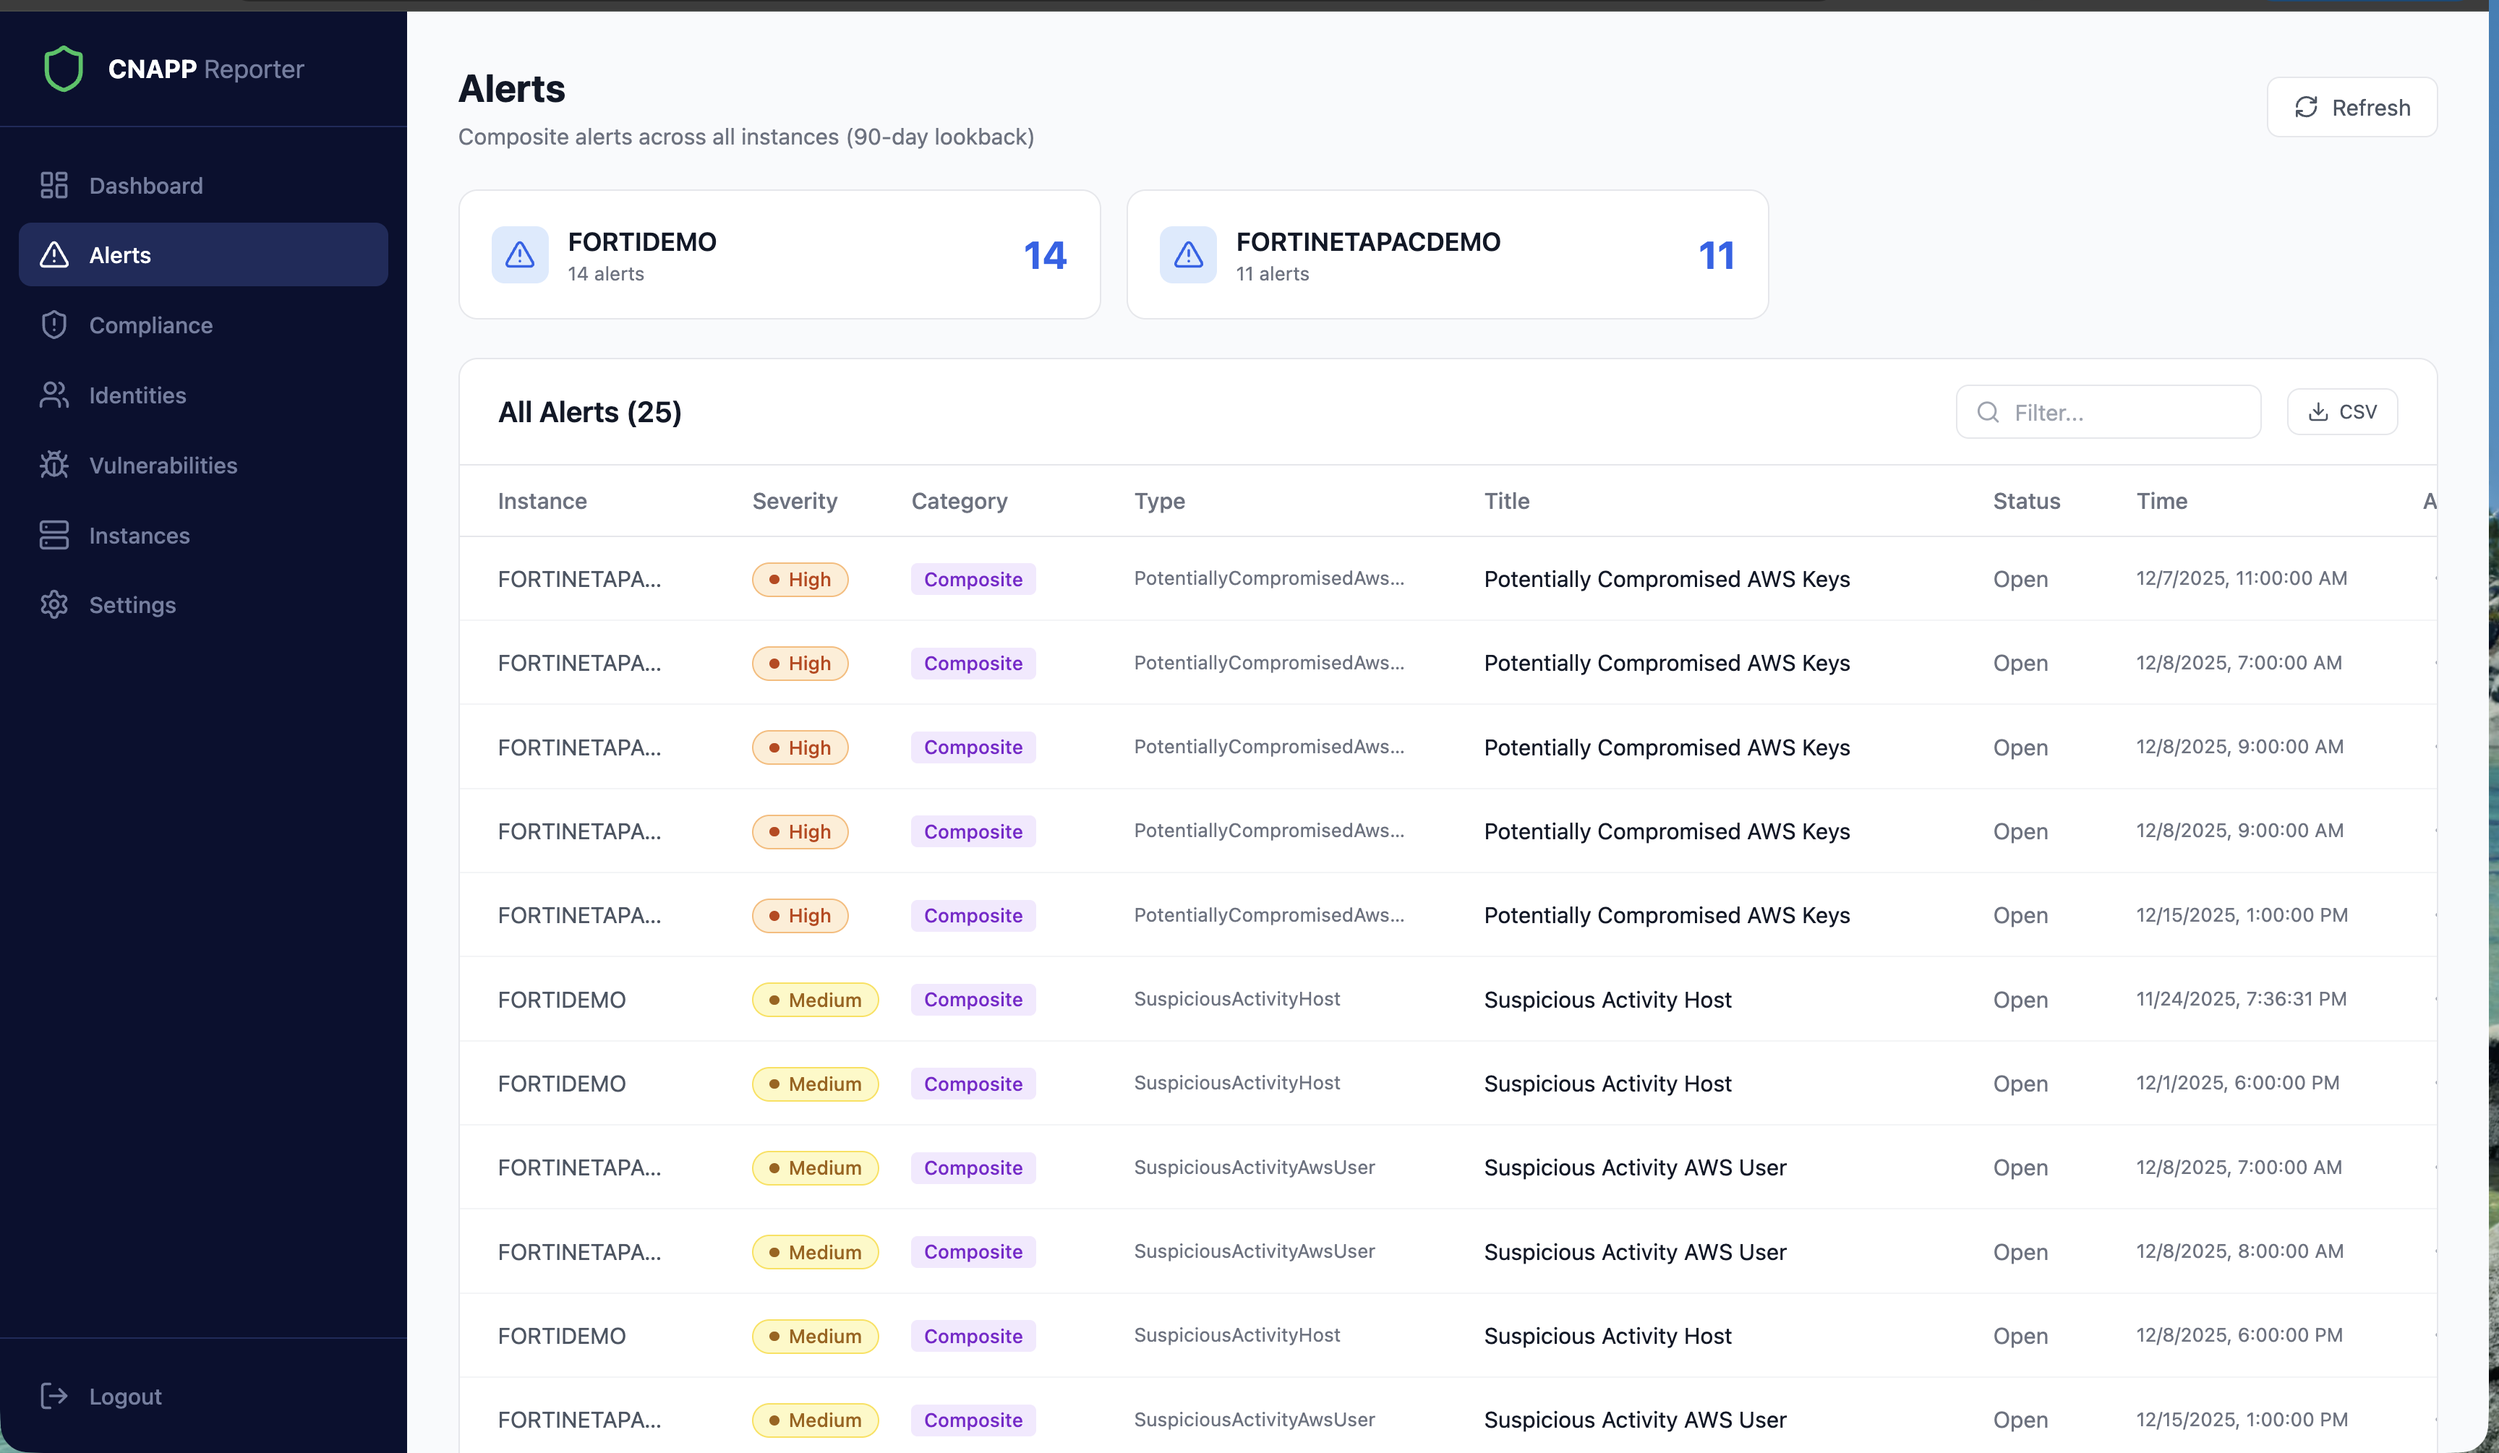
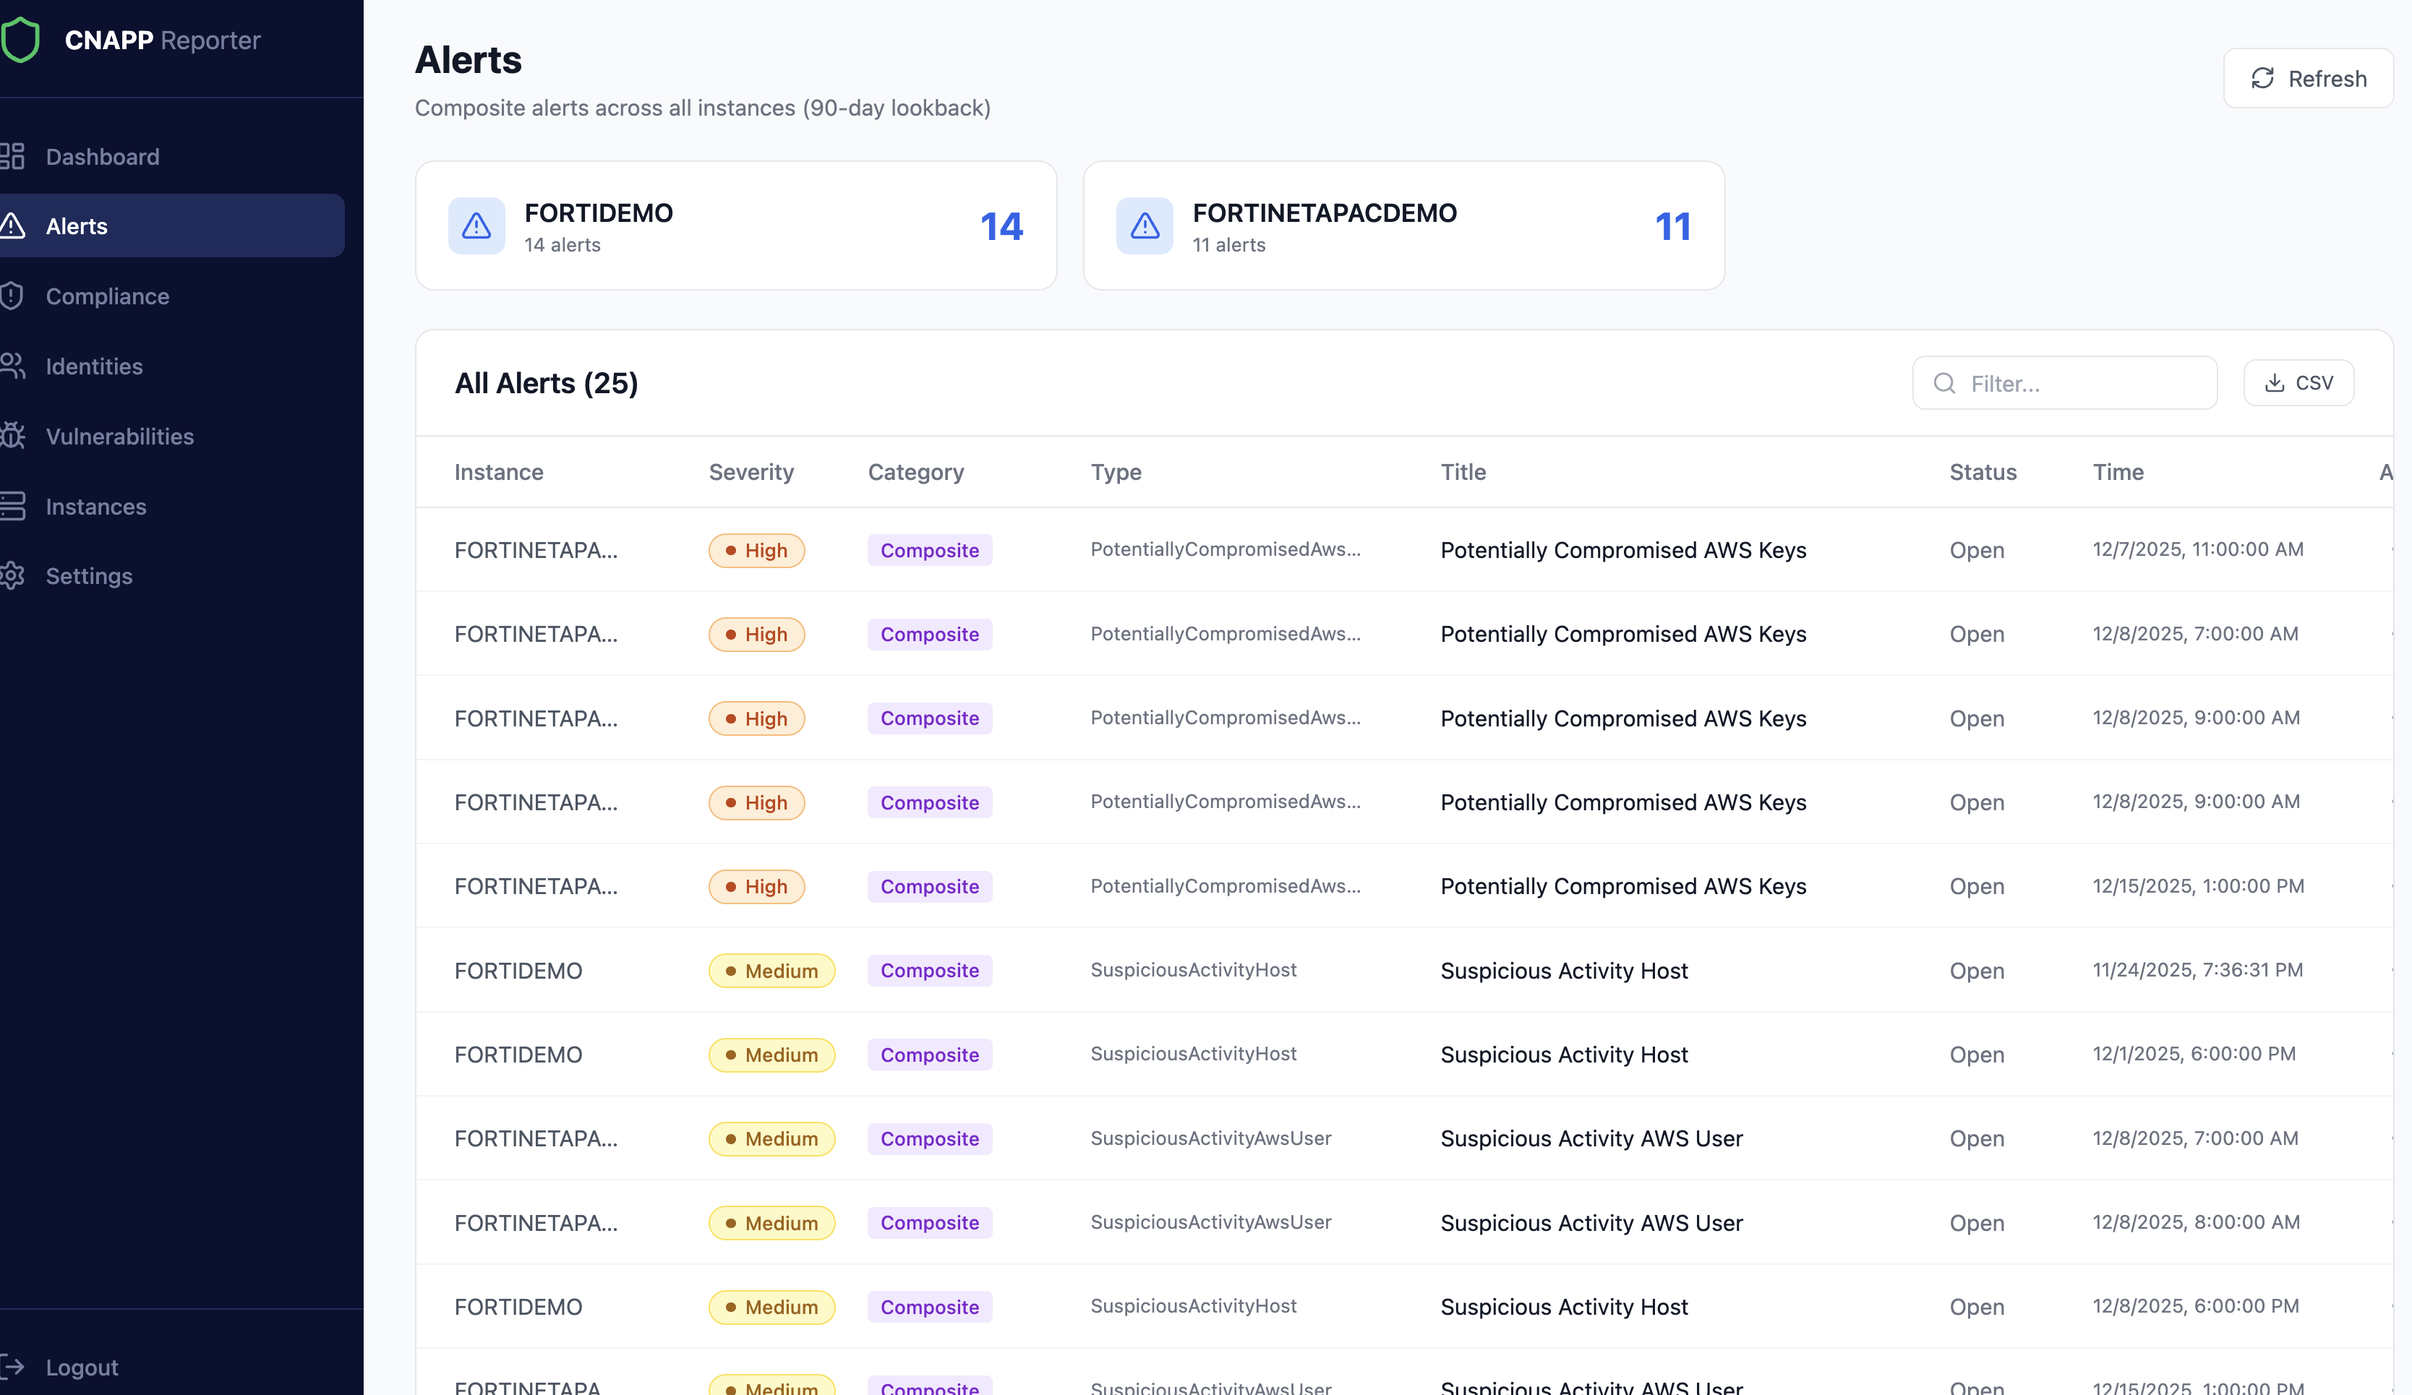
Crop screenshots, remove filler line from README

diff --git a/README.md b/README.md
@@ -16,8 +16,6 @@ Pulls together alerts, vulnerabilities, compliance issues, and identity risks fr
 
 **Vulnerabilities** - critical vulns with internet-exposure detection and fix availability.
 
-Every table supports column resizing, text search, instance filtering, and CSV export.
-
 ![Alerts](screenshots/alerts.png)
 ![Compliance](screenshots/compliance.png)
 ![Identities](screenshots/identities.png)
